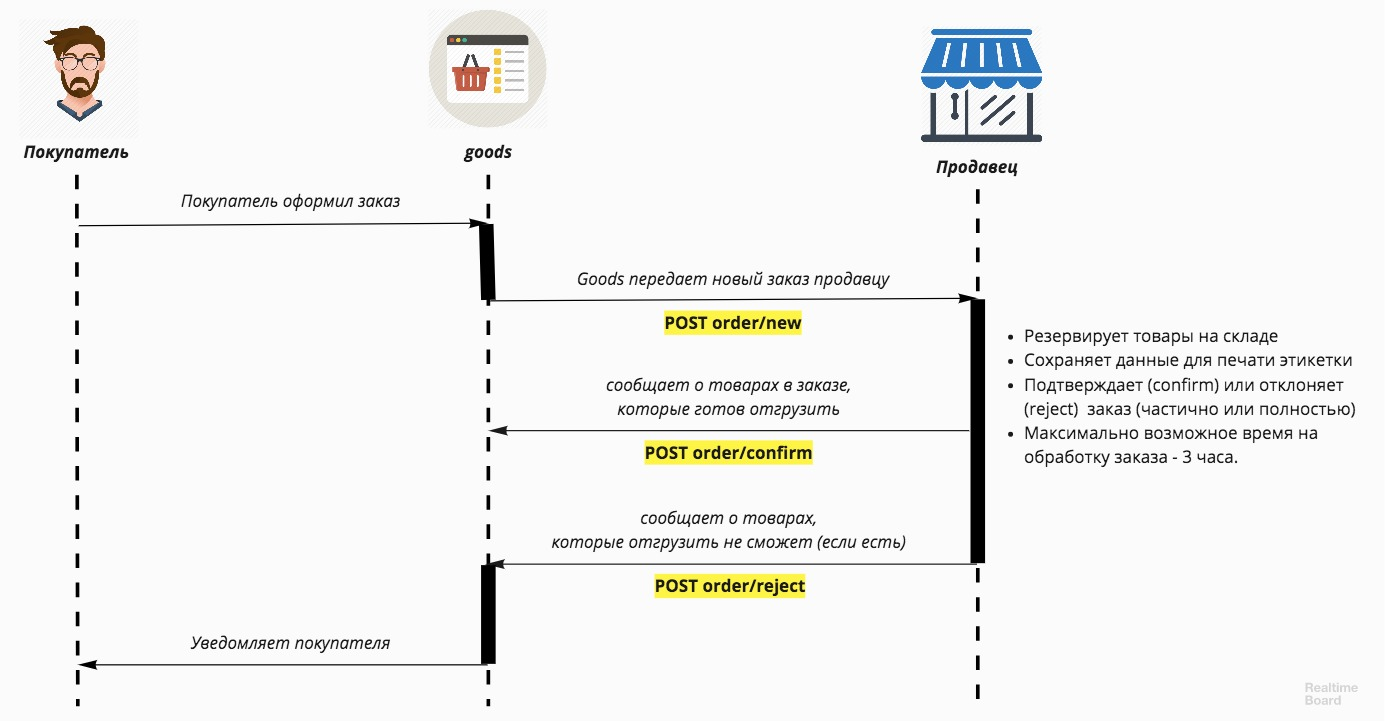
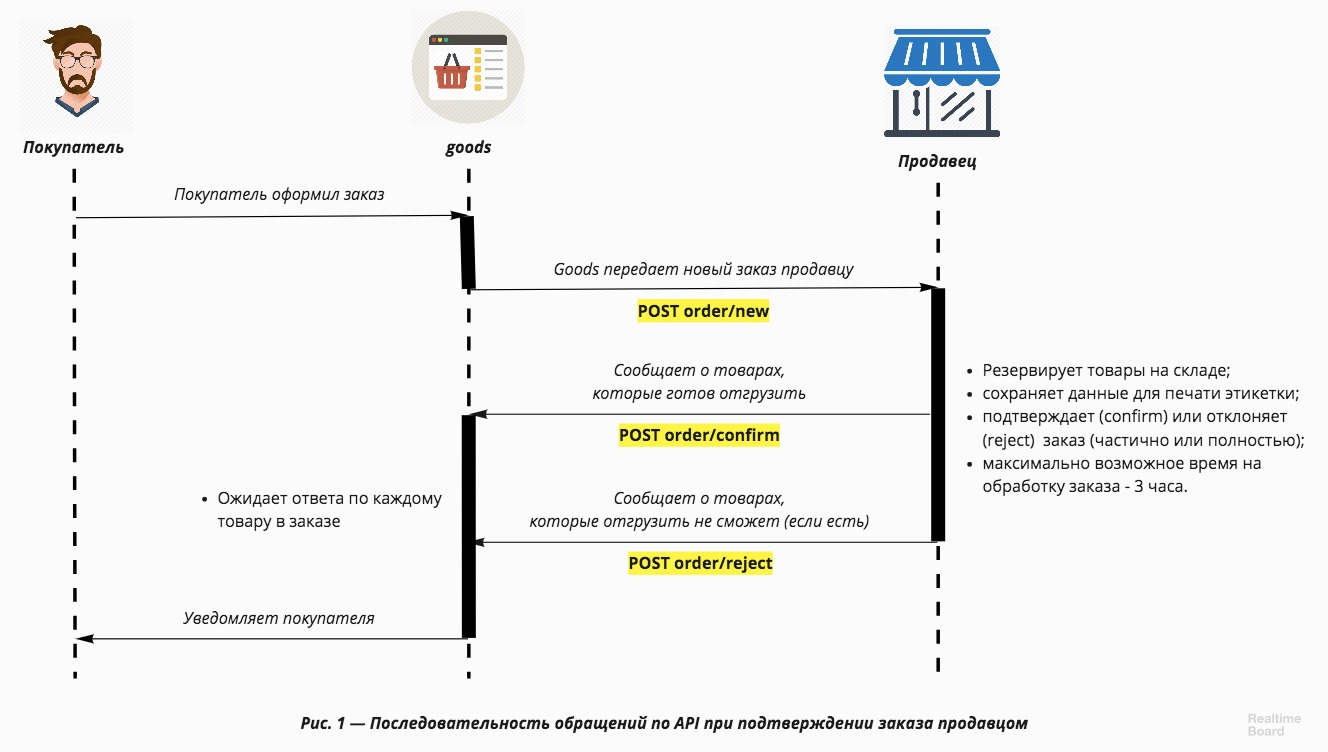
fix many errors

diff --git a/css/style.css b/css/style.css
@@ -1,12 +1,3 @@
-/*
-	Helvetica Neue
-
-	Demo css to show basic, more technical styling
-
-	Visit http://www.ulyssesapp.com/styles for full reference
-
-*/
-
 body {font-size: 13pt;color:#222;background:#fbfbfb;font-family:"Helvetica Neue", Arial, Helvetica, sans-serif;line-height: 1.4;margin: 10%;}
 
 h1, h2, h3, h4, h5, h6 {font-weight:normal;color:#111;}
@@ -48,7 +39,7 @@ figcaption {font-size: 0.75em;padding:0.5em 2em;margin-bottom: 2em;}
 figure img {margin-bottom: 0px;}
 
 code {font-family: Menlo, monospace; font-size:90%;}
-p > code {padding:0.2em 0.4em; background:#e1e9ed;}
+code, td > code {padding:0.2em 0.4em; background:#e1e9ed; border-radius: 4px;}
 pre {text-align:left; overflow-x: scroll; color: #d3bd7e; background: #202020; padding: 10pt 15pt; border-radius: 3px;}
 
 hr {border: 0px; border-top: 1px solid #ddd; border-bottom: 1px solid #fff;margin-top: 4em;margin-bottom: 2em;}
@@ -120,3 +111,320 @@ a:target {border:0;outline: 0;}
 	}
 }
 
+body .gist .highlight {
+    background: #141414;
+}
+body .gist .blob-num,
+body .gist .blob-code-inner,
+body .gist .highlight,
+body .gist .pl-enm,
+body .gist .pl-ko,
+body .gist .pl-mo,
+body .gist .pl-mp1 .pl-sf,
+body .gist .pl-ms,
+body .gist .pl-pdc1,
+body .gist .pl-scp,
+body .gist .pl-smc,
+body .gist .pl-som,
+body .gist .pl-va,
+body .gist .pl-vpf,
+body .gist .pl-vpu,
+body .gist .pl-mdr {
+     color: #aab1bf;
+}
+body .gist .pl-mb,
+body .gist .pl-pdb {
+     font-weight: 700;
+}
+body .gist .pl-c,
+body .gist .pl-c span,
+body .gist .pl-pdc {
+     color: #5b6270;
+     font-style: italic;
+}
+body .gist .pl-sr .pl-cce {
+     color: #56b5c2;
+     font-weight: 400;
+}
+body .gist .pl-ef,
+body .gist .pl-en,
+body .gist .pl-enf,
+body .gist .pl-eoai,
+body .gist .pl-kos,
+body .gist .pl-mh .pl-pdh,
+body .gist .pl-mr {
+     color: #61afef;
+}
+body .gist .pl-ens,
+body .gist .pl-vi {
+     color: #be5046;
+}
+body .gist .pl-enti,
+body .gist .pl-mai .pl-sf,
+body .gist .pl-ml,
+body .gist .pl-sf,
+body .gist .pl-sr,
+body .gist .pl-sr .pl-sra,
+body .gist .pl-src,
+body .gist .pl-st,
+body .gist .pl-vo {
+     color: #56b5c2;
+}
+body .gist .pl-eoi,
+body .gist .pl-mri,
+body .gist .pl-pds,
+body .gist .pl-pse .pl-s1,
+body .gist .pl-s,
+body .gist .pl-s1 {
+     color: #97c279;
+}
+body .gist .pl-k,
+body .gist .pl-kolp,
+body .gist .pl-mc,
+body .gist .pl-pde {
+     color: #c578dd;
+}
+body .gist .pl-mi,
+body .gist .pl-pdi {
+     color: #c578dd;
+     font-style: italic;
+}
+body .gist .pl-mp,
+body .gist .pl-stp {
+     color: #818896;
+}
+body .gist .pl-mdh,
+body .gist .pl-mdi,
+body .gist .pl-mdr {
+     font-weight: 400;
+}
+body .gist .pl-mdht,
+body .gist .pl-mi1 {
+     color: #97c279;
+     background: #020;
+}
+body .gist .pl-md,
+body .gist .pl-mdhf {
+     color: #df6b75;
+     background: #200;
+}
+body .gist .pl-corl {
+     color: #df6b75;
+     text-decoration: underline;
+}
+body .gist .pl-ib {
+     background: #df6b75;
+}
+body .gist .pl-ii {
+     background: #e0c184;
+     color: #fff;
+}
+body .gist .pl-iu {
+     background: #e05151;
+}
+body .gist .pl-ms1 {
+     color: #aab1bf;
+     background: #373b41;
+}
+body .gist .pl-c1,
+body .gist .pl-cn,
+body .gist .pl-e,
+body .gist .pl-eoa,
+body .gist .pl-eoac,
+body .gist .pl-eoac .pl-pde,
+body .gist .pl-kou,
+body .gist .pl-mm,
+body .gist .pl-mp .pl-s3,
+body .gist .pl-mq,
+body .gist .pl-s3,
+body .gist .pl-sok,
+body .gist .pl-sv,
+body .gist .pl-mb {
+     color: #d19965;
+}
+body .gist .pl-enc,
+body .gist .pl-entc,
+body .gist .pl-pse .pl-s2,
+body .gist .pl-s2,
+body .gist .pl-sc,
+body .gist .pl-smp,
+body .gist .pl-sr .pl-sre,
+body .gist .pl-stj,
+body .gist .pl-v,
+body .gist .pl-pdb {
+     color: #e4bf7a;
+}
+body .gist .pl-ent,
+body .gist .pl-entl,
+body .gist .pl-entm,
+body .gist .pl-mh,
+body .gist .pl-pdv,
+body .gist .pl-smi,
+body .gist .pl-sol,
+body .gist .pl-mdh,
+body .gist .pl-mdi {
+     color: #df6b75;
+}
+
+.table {
+	font-size: 12px;
+	width: 100%;
+}
+.table th,
+.table td {
+  padding: 4px 8px;
+  line-height: 24px;
+  text-align: left;
+  vertical-align: top;
+  border-top: 1px solid #dddddd;
+}
+
+.table td .ancor {
+  float: right;
+  margin-top: 17px;
+}
+
+.table th {
+  font-weight: bold;
+}
+
+.table thead th {
+  vertical-align: bottom;
+}
+
+.table caption + thead tr:first-child th,
+.table caption + thead tr:first-child td,
+.table colgroup + thead tr:first-child th,
+.table colgroup + thead tr:first-child td,
+.table thead:first-child tr:first-child th,
+.table thead:first-child tr:first-child td {
+  border-top: 0;
+}
+
+.table tbody + tbody {
+  border-top: 2px solid #dddddd;
+}
+
+.table .table {
+  background-color: #ffffff;
+}
+
+.table-condensed th,
+.table-condensed td {
+  padding: 4px 5px;
+}
+
+.table-bordered {
+  border: 1px solid #dddddd;
+  border-collapse: separate;
+  *border-collapse: collapse;
+  border-left: 0;
+  -webkit-border-radius: 4px;
+     -moz-border-radius: 4px;
+          border-radius: 4px;
+}
+
+.table-bordered th,
+.table-bordered td {
+  border-left: 1px solid #dddddd;
+}
+
+.table-bordered caption + thead tr:first-child th,
+.table-bordered caption + tbody tr:first-child th,
+.table-bordered caption + tbody tr:first-child td,
+.table-bordered colgroup + thead tr:first-child th,
+.table-bordered colgroup + tbody tr:first-child th,
+.table-bordered colgroup + tbody tr:first-child td,
+.table-bordered thead:first-child tr:first-child th,
+.table-bordered tbody:first-child tr:first-child th,
+.table-bordered tbody:first-child tr:first-child td {
+  border-top: 0;
+}
+
+.table-bordered thead:first-child tr:first-child > th:first-child,
+.table-bordered tbody:first-child tr:first-child > td:first-child,
+.table-bordered tbody:first-child tr:first-child > th:first-child {
+  -webkit-border-top-left-radius: 4px;
+          border-top-left-radius: 4px;
+  -moz-border-radius-topleft: 4px;
+}
+
+.table-bordered thead:first-child tr:first-child > th:last-child,
+.table-bordered tbody:first-child tr:first-child > td:last-child,
+.table-bordered tbody:first-child tr:first-child > th:last-child {
+  -webkit-border-top-right-radius: 4px;
+          border-top-right-radius: 4px;
+  -moz-border-radius-topright: 4px;
+}
+
+.table-bordered thead:last-child tr:last-child > th:first-child,
+.table-bordered tbody:last-child tr:last-child > td:first-child,
+.table-bordered tbody:last-child tr:last-child > th:first-child,
+.table-bordered tfoot:last-child tr:last-child > td:first-child,
+.table-bordered tfoot:last-child tr:last-child > th:first-child {
+  -webkit-border-bottom-left-radius: 4px;
+          border-bottom-left-radius: 4px;
+  -moz-border-radius-bottomleft: 4px;
+}
+
+.table-bordered thead:last-child tr:last-child > th:last-child,
+.table-bordered tbody:last-child tr:last-child > td:last-child,
+.table-bordered tbody:last-child tr:last-child > th:last-child,
+.table-bordered tfoot:last-child tr:last-child > td:last-child,
+.table-bordered tfoot:last-child tr:last-child > th:last-child {
+  -webkit-border-bottom-right-radius: 4px;
+          border-bottom-right-radius: 4px;
+  -moz-border-radius-bottomright: 4px;
+}
+
+.table-bordered tfoot + tbody:last-child tr:last-child td:first-child {
+  -webkit-border-bottom-left-radius: 0;
+          border-bottom-left-radius: 0;
+  -moz-border-radius-bottomleft: 0;
+}
+
+.table-bordered tfoot + tbody:last-child tr:last-child td:last-child {
+  -webkit-border-bottom-right-radius: 0;
+          border-bottom-right-radius: 0;
+  -moz-border-radius-bottomright: 0;
+}
+
+.table-bordered caption + thead tr:first-child th:first-child,
+.table-bordered caption + tbody tr:first-child td:first-child,
+.table-bordered colgroup + thead tr:first-child th:first-child,
+.table-bordered colgroup + tbody tr:first-child td:first-child {
+  -webkit-border-top-left-radius: 4px;
+          border-top-left-radius: 4px;
+  -moz-border-radius-topleft: 4px;
+}
+
+.table-bordered caption + thead tr:first-child th:last-child,
+.table-bordered caption + tbody tr:first-child td:last-child,
+.table-bordered colgroup + thead tr:first-child th:last-child,
+.table-bordered colgroup + tbody tr:first-child td:last-child {
+  -webkit-border-top-right-radius: 4px;
+          border-top-right-radius: 4px;
+  -moz-border-radius-topright: 4px;
+}
+
+.table-striped tbody > tr:nth-child(odd) > td,
+.table-striped tbody > tr:nth-child(odd) > th {
+  background-color: #f9f9f9;
+}
+
+.table-hover tbody tr:hover > td,
+.table-hover tbody tr:hover > th {
+  background-color: #f5f5f5;
+}
+
+.table ul, .table ol {
+  margin: 0;
+  padding: 0;
+}
+.table ul li, .table ol li {
+  list-style-type: none;
+  padding: 0;
+  margin: 2px 0;
+}
+
+.table td:nth-child(1), td:nth-child(2), td:nth-child(3), td:nth-child(4) {white-space: nowrap;}

diff --git a/index.html b/index.html
@@ -145,6 +145,11 @@
 				</ul></li>
 			<li>В элементе <code>shippingDate</code> передается дата отгрузки заказа, в которую продавец обязуется отгрузить заказ. Для того, чтобы доставить заказ покупателю в запланированную дату доставки.</li>
 		</ul></li>
+</ol>
+
+<p><code>7</code></p>
+
+<ol>
 	<li>Продавец должен в течение <strong>3 часов</strong> с момента получения заказа сообщить свое решение goods об отгрузки. Решение ожидается по каждому товару в заказе. Сообщается вызовом методов POST order/confirm и POST order/reject. </li>
 </ol>
 
